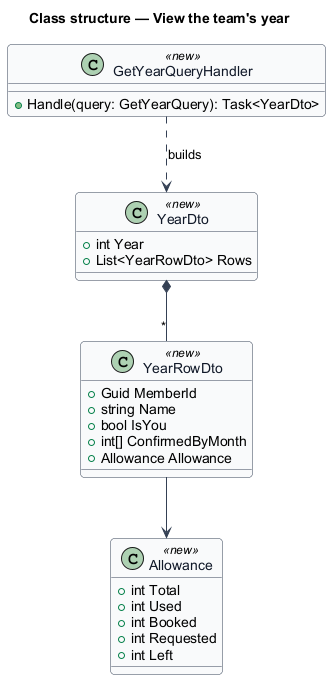
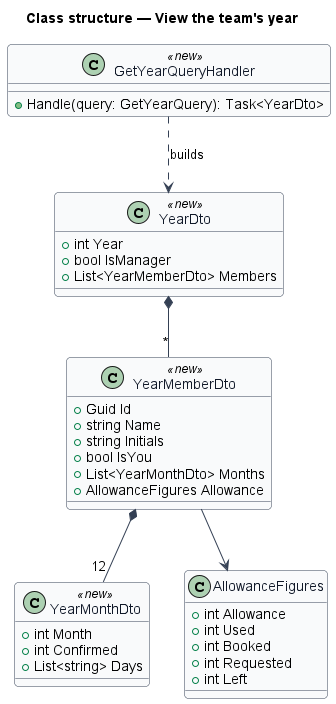
Year overview design: resolve open question, define the YearDto shape

diff --git a/docs/detailed-designs/allowances/year-overview/README.md b/docs/detailed-designs/allowances/year-overview/README.md
@@ -6,7 +6,14 @@ The year page shows the whole team's year in one view. A grid has one row per me
 
 Below the grid, a table gives each person's allowance for the year: Allowance, Used, Booked, Requested, Left and a usage bar. Sorting by days left, most first, shows who has not had a break.
 
-`<TO SUPPLY>`: the mocks show this table to members as well as the manager, while the person page tells members that only managers see everyone's allowance (`L2-035` AC1). This design follows the year mocks.
+## Decisions
+
+- **Everyone sees the allowance table.** The mocks show it to members as well as the manager, while the person page tells members that only managers see everyone's allowance (`L2-035` AC1). The year page follows the year mocks: every member of the team sees every row of the table, because the calendar already shows each person's days left (`L2-014` AC1) and the same figures. What a member does not get is the link from a name to that person's page, which is for the manager (`pages/year/member`). The endpoint returns only the caller's own team (`ADR-007`).
+- **The year is a calendar year.** `GET /api/year?year=2026` groups days from 1 January to 31 December and takes the allowance for the leave year that starts in that year, at the team's leave-year start month (`ADR-007`). Used and Booked still split at today in the team's time zone, so a past year is all Used and a future year all Booked.
+- **A sliver per day.** The grid draws one sliver per calendar day (mock `pages/year/default`), so each month carries its days' statuses as well as the confirmed count the cell is named by. Weekends, holidays and days a member does not work are `off`; a day with no row is `empty`.
+- **Sorting is the client's.** The endpoint returns the rows with the caller first, then in team order; "Most days left first" reorders them in the browser and toggles back (`aria-pressed`).
+- **Empty means no one but the manager.** As on the calendar (`L2-012` AC6), a team of one shows "No one on the team yet".
+- **Errors.** A year that is not a four-digit year from 2000 to 2100 answers 400 with the validation `code`; a caller on no team is 404 `not_found`; no session is 401. Nothing in an error names another team.
 
 ## Description
 
@@ -16,12 +23,12 @@ The feature is a vertical slice from the Greenlit web application to the Greenli
 
 - **`YearPage`** — App-shell page (`page: 'year'`) with "Previous year" and "Next year", the legend, the `gl-year-grid` "Time off by month" and the allowance `gl-table` with the sort control "Most days left first".
 - **`YearGrid`** — Cells named "{member}, {Month}: {n} confirmed days off"; activating one navigates to the calendar for that month.
-- **`YearService / YEAR_SERVICE`** — `year(yyyy)`.
+- **`YearService / YEAR_SERVICE`** — `year(yyyy)`; `HttpYearService` calls `GET /api/year`.
 
 **Backend**
 
 - **`YearController`** — `GET /api/year?year=2026`.
-- **`GetYearQueryHandler`** — Groups the team's confirmed days by member and month in one query and computes each member's `Allowance` for the leave year. The signed-in member's row comes first.
+- **`GetYearQueryHandler`** — Reads the team's days and holidays for the calendar year in one query each, builds each member's twelve months (day statuses and the confirmed count) and takes each member's `AllowanceFigures` from `AllowanceCalculator`. The signed-in person's row comes first.
 
 **Shared plumbing (exists today)**
 
@@ -60,7 +67,7 @@ The year page loads one `YearDto` from the Greenlit API.
 
 ### Class structure
 
-Each `YearRowDto` has twelve monthly counts and an `Allowance`; sorting happens on the client.
+Each `YearMemberDto` has twelve `YearMonthDto` (a confirmed count and a status per day) and its `AllowanceFigures`; sorting happens on the client.
 
 ![Class diagram for view the team's year](diagrams/class-structure.png)
 
